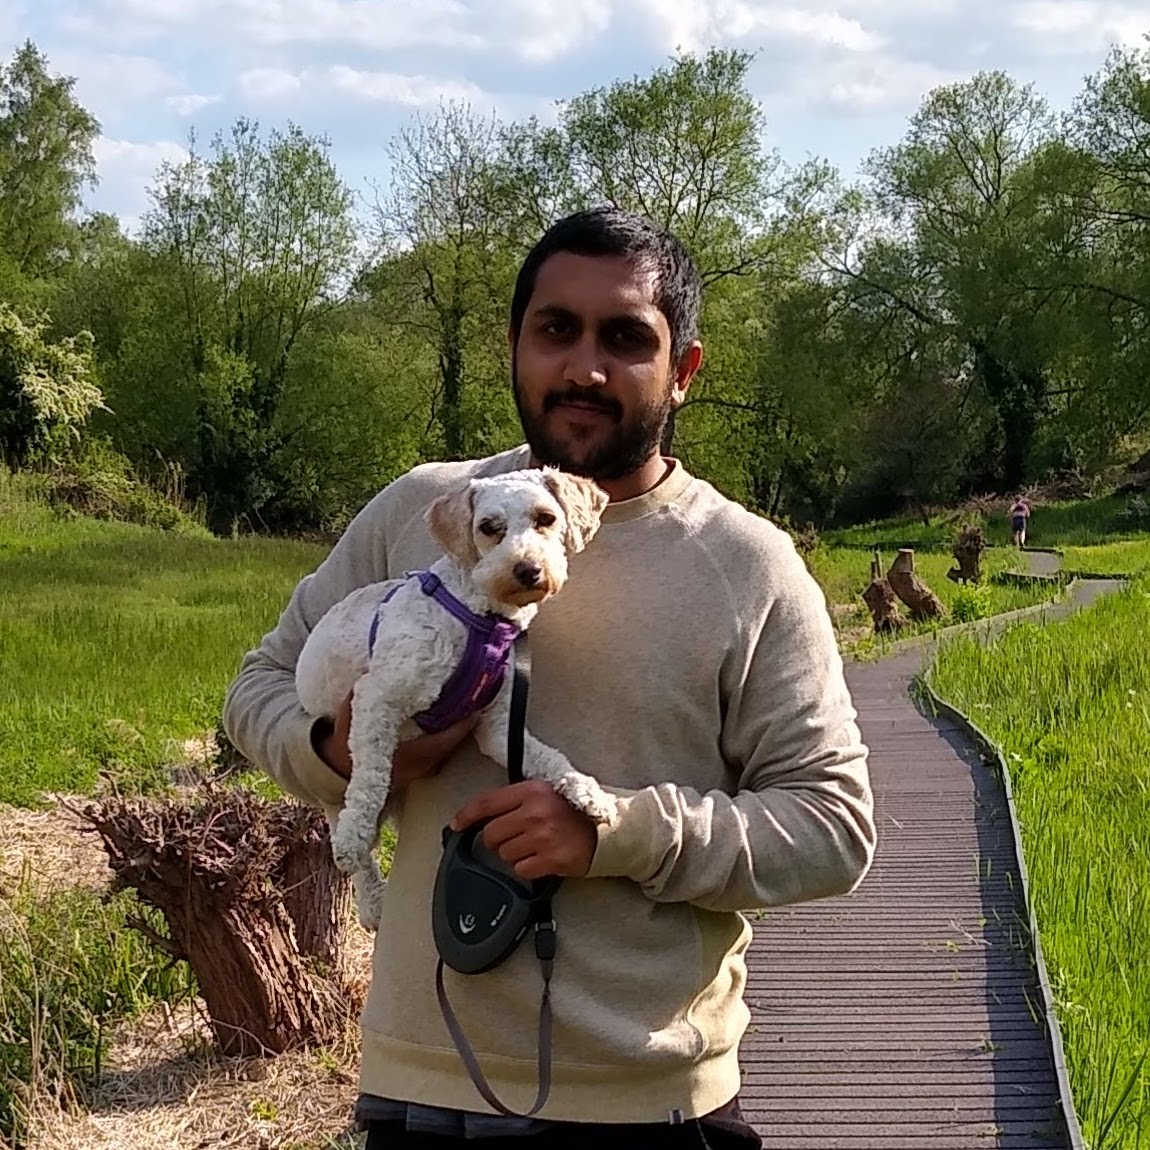
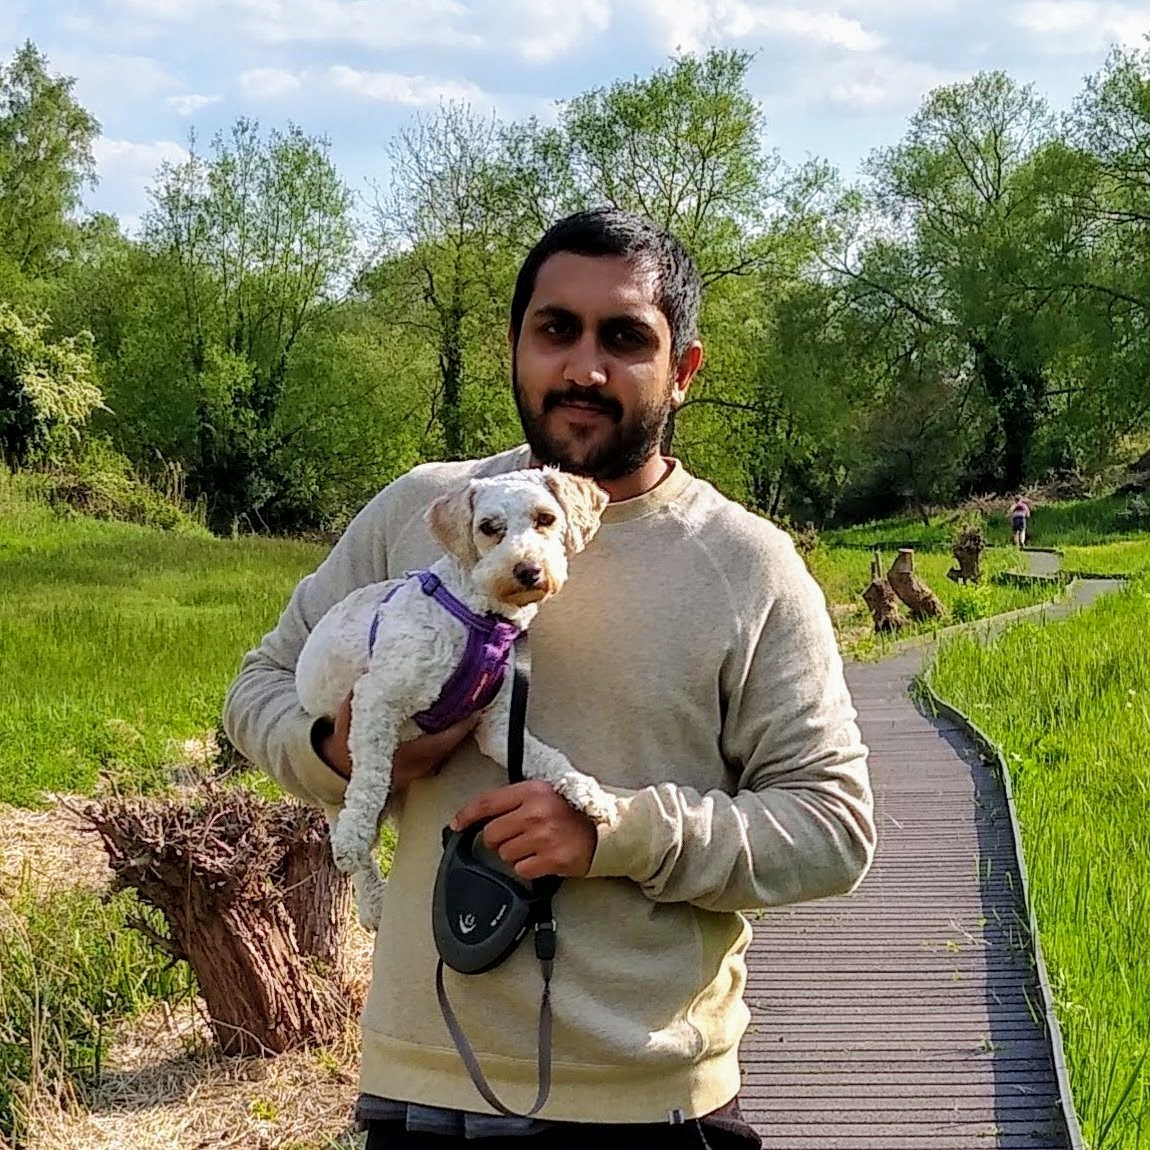
design based on different browsers

diff --git a/src/Home.js b/src/Home.js
@@ -5,7 +5,6 @@ import styled from "styled-components";
 import useWindowSize from "./hooks/useScreenSize";
 import { colours, screenBreakpoints } from "./theme";
 import meImg from "./assets/me.jpg";
-import "./App.css";
 
 // @Cleanup - move this into a different file
 // ############################################################
@@ -55,35 +54,50 @@ function Link({ children, href }) {
 // ############################################################
 // ############################################################
 
+const Title = styled.div`
+  font-size: 4em;
+  font-weight: bold;
+
+  @media (max-width: ${screenBreakpoints.small}px) {
+    font-size: 3em;
+  }
+`;
+
+// @Cleanup - Tile and Container is unreadable
+const Tile = styled.div`
+  width: 100%;
+  height: 100vh;
+  background-color: ${({ colour }) => colour};
+`;
+
 const Container = styled.div`
   display: flex;
-  height: 100vh;
+  height: 100%;
   padding: 0 2.5%;
+  margin: 0 auto;
+  max-width: 1250px;
 
   @media (max-width: ${screenBreakpoints.desktop}px) {
     flex-direction: column;
     align-items: center;
     justify-content: center;
   }
-
-  // http://bit.ly/2QRg4FQ #a32aa3
-  background: url(
[1 lines of base64/hex data omitted]
-       )
-    repeat;
 `;
 
-const ImgContainer = styled.div`
-  width: 45%;
+const ImgContainer = styled(animated.div)`
+  width: 47.5%;
   display: flex;
   align-items: center;
+  justify-content: center;
 
   @media (max-width: ${screenBreakpoints.desktop}px) {
     width: 70%;
+    height: 50%;
   }
 
   @media (max-width: ${screenBreakpoints.tablet}px) {
     width: 90%;
+    height: 50%;
   }
 
   @media (max-width: ${screenBreakpoints.small}px) {
@@ -92,7 +106,7 @@ const ImgContainer = styled.div`
 `;
 
 const TextContainer = styled(animated.div)`
-  width: 45%;
+  width: 47.5%;
   display: flex;
   flex-direction: column;
   align-items: center;
@@ -108,21 +122,28 @@ const TextContainer = styled(animated.div)`
   }
 `;
 
-const Title = styled.div`
-  font-size: 4em;
-  font-weight: bold;
+const Quote = styled.i`
+  margin-bottom: 4em;
+  text-align: center;
 
   @media (max-width: ${screenBreakpoints.small}px) {
-    font-size: 3em;
+    margin-bottom: 2em;
   }
 `;
 
-const Tile = styled.div`
-  width: 100%;
-  height: 100vh;
+const Image = styled.img`
+  border-radius: 50%;
+  max-height: 100%;
+  max-width: 100%;
+  width: auto;
+  height: auto;
 `;
 
-function Home() {
+// @Cleanup - change this
+const backgroundPattern =
[1 lines of base64/hex data omitted]
+
+export default function Home() {
   const screenWidth = useWindowSize().width;
 
   const imgAnimation = useSpring({
@@ -140,29 +161,18 @@ function Home() {
 
   return (
     <>
-      {/* @Cleanup - having this div doesn't make sense in terms of the Container
-      styled component */}
-      <div
+      <Tile
+        colour={colours.secondary}
         style={{
-          maxWidth: "1250px",
-          margin: "0 auto"
+          // http://bit.ly/2QRg4FQ #a32aa3
+          background: `url(${backgroundPattern})repeat`
         }}
       >
         <Container>
-          <ImgContainer>
-            <animated.div style={imgAnimation}>
-              <img
-                src={meImg}
-                alt="me"
-                style={{
-                  borderRadius: "50%",
-                  paddingTop: "0%",
-                  width: "100%"
-                }}
-              />
-            </animated.div>
+          <ImgContainer style={imgAnimation}>
+            <Image src={meImg} alt="me" />
           </ImgContainer>
-          <div style={{ width: "2.5%" }} />
+          <div style={{ width: "5%" }} />
           <TextContainer style={textAnimation}>
             <Title>Arjun Gupta</Title>
             <div
@@ -173,15 +183,10 @@ function Home() {
             >
               React Developer
             </div>
-            <i
-              style={{
-                marginBottom: "4em",
-                textAlign: "center"
-              }}
-            >
+            <Quote>
               "Finding solutions to business problems is more interesting and
               important than the art of code."
-            </i>
+            </Quote>
             <LinkContainer>
               <Link>Info</Link>
               <Link>Labs</Link>
@@ -189,9 +194,7 @@ function Home() {
             </LinkContainer>
           </TextContainer>
         </Container>
-      </div>
+      </Tile>
     </>
   );
 }
-
-export default Home;

diff --git a/src/index.css b/src/index.css
@@ -1,13 +1,16 @@
 body {
   margin: 0;
-  font-family: -apple-system, BlinkMacSystemFont, 'Segoe UI', 'Roboto', 'Oxygen',
-    'Ubuntu', 'Cantarell', 'Fira Sans', 'Droid Sans', 'Helvetica Neue',
+  font-family: -apple-system, BlinkMacSystemFont, "Segoe UI", "Roboto", "Oxygen",
+    "Ubuntu", "Cantarell", "Fira Sans", "Droid Sans", "Helvetica Neue",
     sans-serif;
   -webkit-font-smoothing: antialiased;
   -moz-osx-font-smoothing: grayscale;
 }
 
-code {
-  font-family: source-code-pro, Menlo, Monaco, Consolas, 'Courier New',
-    monospace;
+body {
+  background-color: #730073;
+}
+
+* {
+  box-sizing: border-box;
 }
